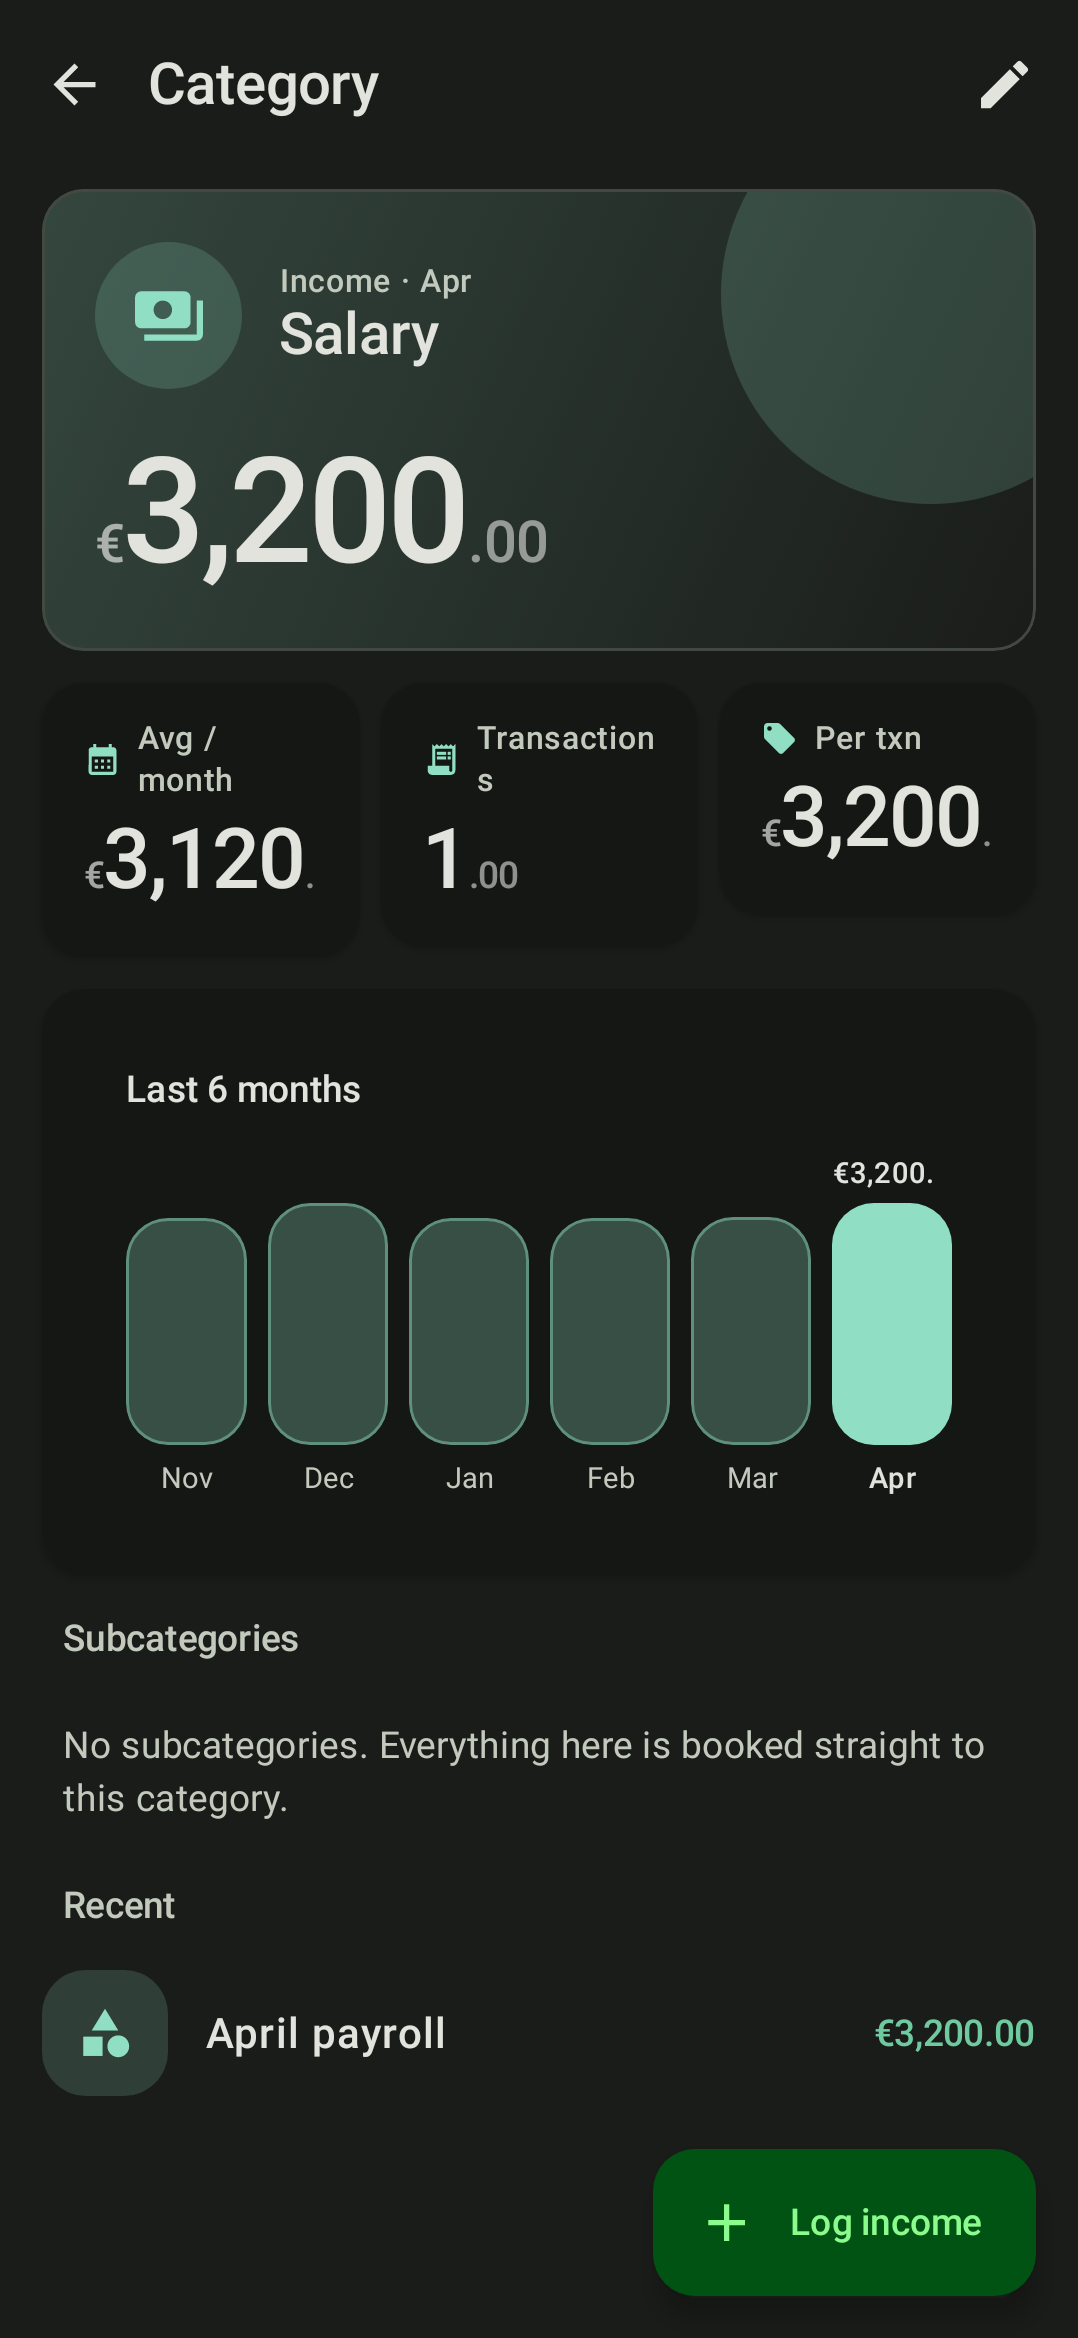
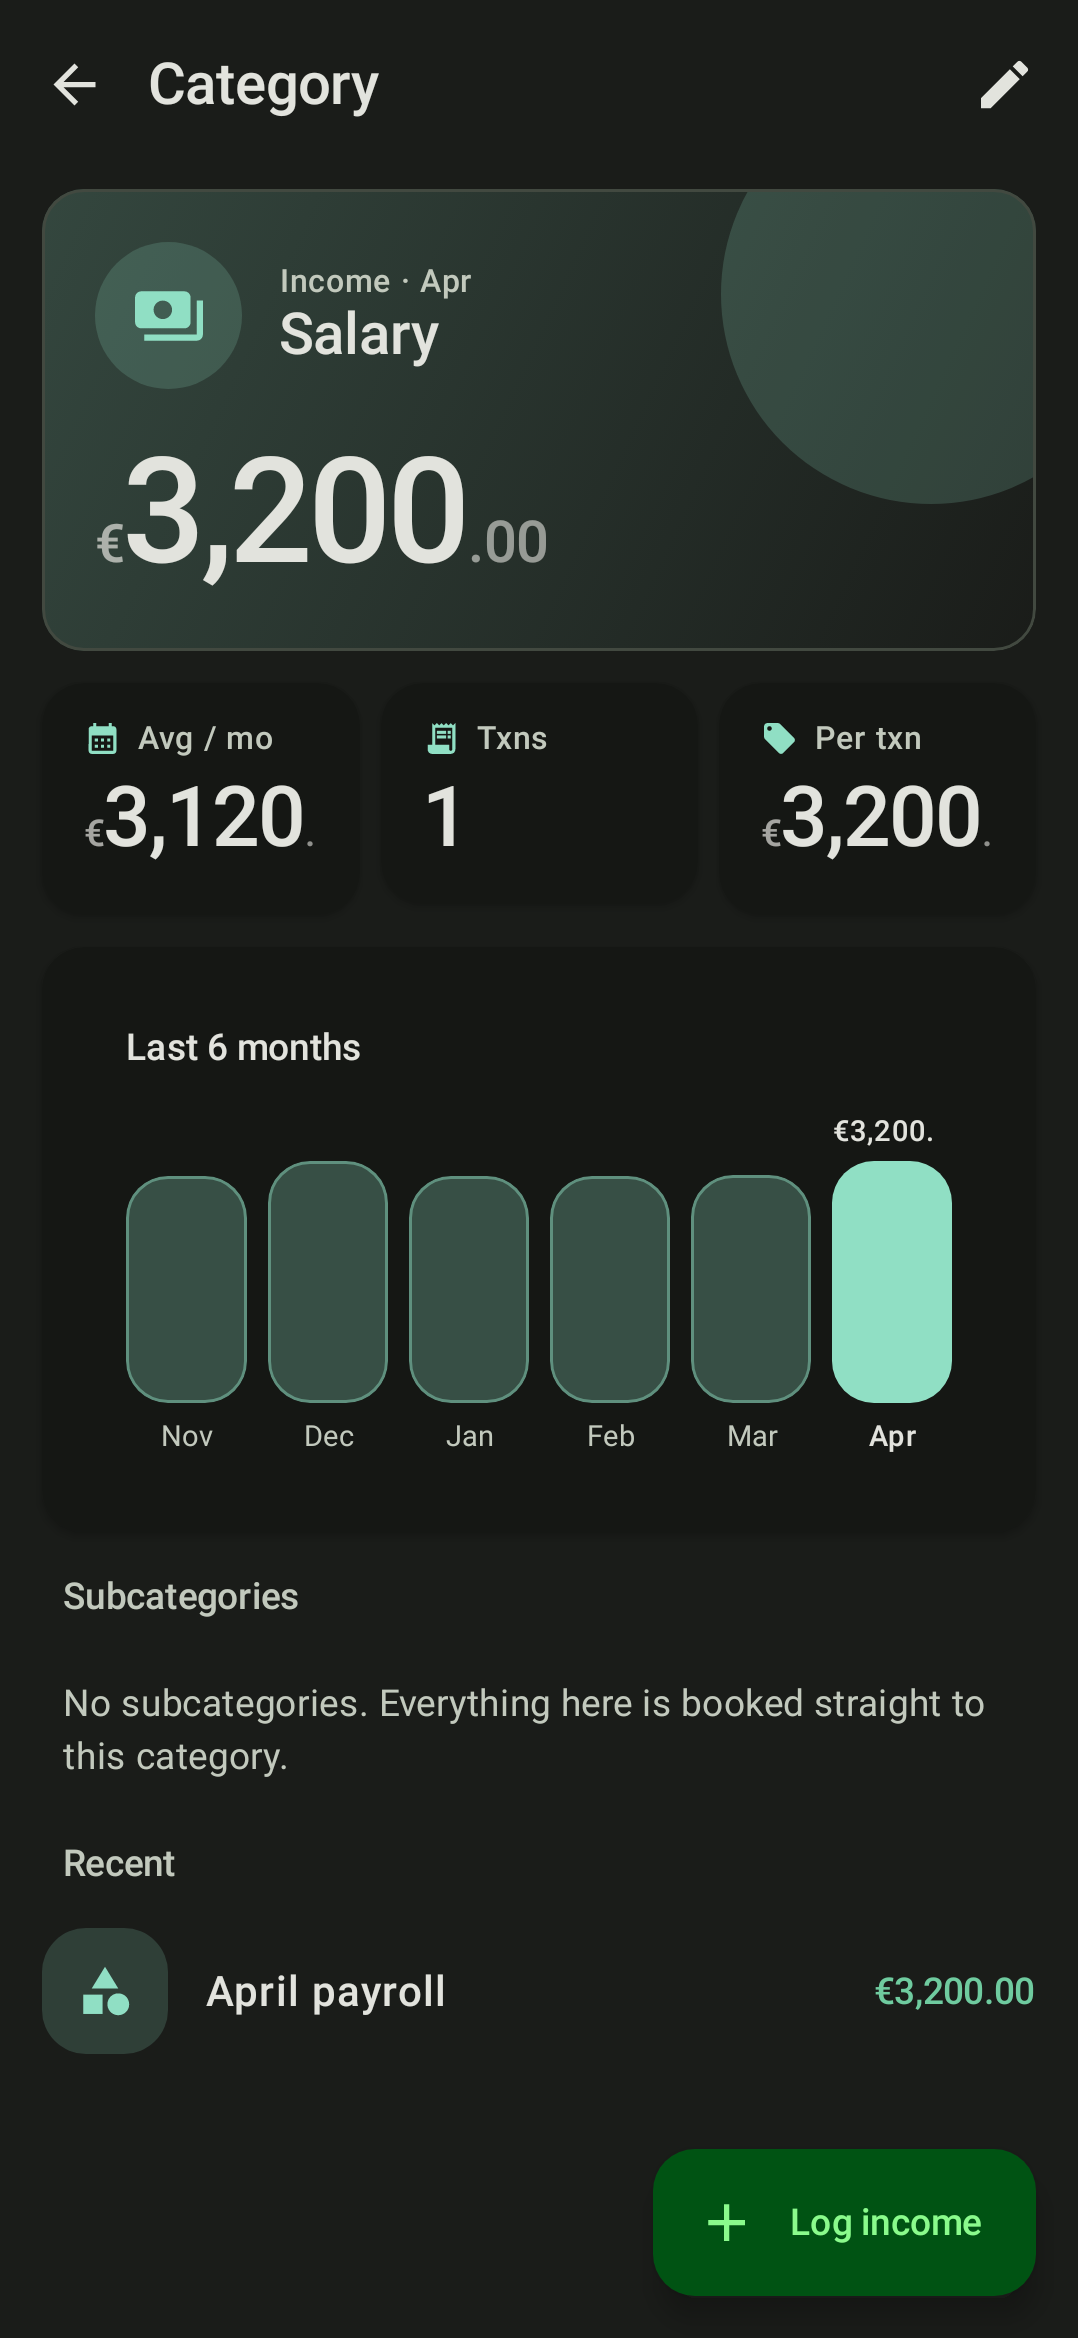
fix(category): re-record the details goldens after the Txns rename
#449 recorded them on a base without #452, so the committed images still show
"Transactions 14.00" where the screen now renders "Txns 14" — `main` has been
red since that merge and every PR inherits it.

Also folds the back-affordance key set into `rememberBackNavigationNavEntryDecorator`,
which leaves the navigation host one call and puts the derivation where a test
can reach it.

diff --git a/navigation/src/commonMain/kotlin/com/georgeci/moneysurfer/navigation/util/BackNavigationNavEntryDecorator.kt b/navigation/src/commonMain/kotlin/com/georgeci/moneysurfer/navigation/util/BackNavigationNavEntryDecorator.kt
@@ -16,17 +16,28 @@ import com.georgeci.moneysurfer.uikit.navigation.LocalSurferCanNavigateBack
  * composed — selecting the section a screen is already in resets the stack to just that screen, and
  * its arrow has to go with the entries that were below it.
  *
- * @param poppableContentKeys from [backNavigationContentKeys].
+ * Takes the [backStack] rather than the keys [backNavigationContentKeys] derives from it, so the
+ * navigation host is left with one call and nothing to hold: which entries can go back is this
+ * file's business, and the host has no test harness to cover it in.
+ *
+ * The keys are derived on every composition rather than through a `derivedStateOf`. Memoizing them
+ * would have to key on [entryProvider], which the host rebuilds each composition, so the cache
+ * would miss every time anyway — and a back stack is a handful of entries. Only the *decorator* is
+ * memoized, on the keys themselves, so an unchanged stack does not hand `NavDisplay` a new one.
  */
 @Composable
 fun <T : Any> rememberBackNavigationNavEntryDecorator(
-    poppableContentKeys: Set<Any>,
-): NavEntryDecorator<T> = remember(poppableContentKeys) {
-    NavEntryDecorator { entry ->
-        CompositionLocalProvider(
-            LocalSurferCanNavigateBack provides (entry.contentKey in poppableContentKeys),
-        ) {
-            entry.Content()
+    backStack: List<T>,
+    entryProvider: (T) -> NavEntry<T>,
+): NavEntryDecorator<T> {
+    val poppableContentKeys = backNavigationContentKeys(backStack, entryProvider)
+    return remember(poppableContentKeys) {
+        NavEntryDecorator { entry ->
+            CompositionLocalProvider(
+                LocalSurferCanNavigateBack provides (entry.contentKey in poppableContentKeys),
+            ) {
+                entry.Content()
+            }
         }
     }
 }

diff --git a/navigation/src/commonMain/kotlin/com/georgeci/moneysurfer/navigation/AppNavGraph.kt b/navigation/src/commonMain/kotlin/com/georgeci/moneysurfer/navigation/AppNavGraph.kt
@@ -32,7 +32,6 @@ import androidx.navigation3.runtime.rememberNavBackStack
 import androidx.navigation3.runtime.rememberSaveableStateHolderNavEntryDecorator
 import androidx.navigation3.ui.NavDisplay
 import androidx.savedstate.serialization.SavedStateConfiguration
-import com.georgeci.moneysurfer.navigation.util.backNavigationContentKeys
 import com.georgeci.moneysurfer.navigation.util.rememberBackNavigationNavEntryDecorator
 import com.georgeci.moneysurfer.navigation.util.rememberViewModelStoreNavEntryDecorator
 import com.georgeci.moneysurfer.uikit.components.SurferSplash
@@ -151,13 +150,6 @@ fun AppNavGraph(
         derivedStateOf { backStack.lastOrNull { it is Route.TopLevel } as? Route.TopLevel }
     }
 
-    // Which screens may draw a back affordance at all. Recomputed from the stack rather than
-    // decided per screen: a section reset to by the drawer has nothing below it, the same section
-    // pushed from the dashboard on a phone does.
-    val poppableContentKeys by remember(backStack) {
-        derivedStateOf { backNavigationContentKeys(backStack, entryProvider) }
-    }
-
     val navDisplay: @Composable () -> Unit = {
         NavDisplay(
             modifier = Modifier.background(AppTheme.materialColors.background),
@@ -184,7 +176,7 @@ fun AppNavGraph(
             entryDecorators = listOf(
                 rememberSaveableStateHolderNavEntryDecorator(),
                 rememberViewModelStoreNavEntryDecorator(),
-                rememberBackNavigationNavEntryDecorator(poppableContentKeys),
+                rememberBackNavigationNavEntryDecorator(backStack, entryProvider),
                 rememberNavigationResultNavEntryDecorator(
                     backStack = backStack,
                     entryProvider = entryProvider,

diff --git a/composeApp/src/jvmTest/kotlin/com/georgeci/moneysurfer/ui/BackNavigationDecoratorTest.kt b/composeApp/src/jvmTest/kotlin/com/georgeci/moneysurfer/ui/BackNavigationDecoratorTest.kt
@@ -27,13 +27,14 @@ class BackNavigationDecoratorTest : StringSpec({
 
     "the decorator gives each entry the affordance its place on the stack allows" {
         val seen = mutableMapOf<String, Boolean>()
+        // A section the drawer reset to, with one detail opened on top of it.
+        val backStack = listOf("accounts", "account-1")
 
         runComposeUiTest {
             setContent {
-                val entries = remember { listOf(probe("accounts", seen), probe("account-1", seen)) }
-                // What `backNavigationContentKeys` produces for the stack [accounts, account-1]:
-                // the list is the bottom entry, the detail above it is not.
-                val decorator = rememberBackNavigationNavEntryDecorator<String>(setOf("account-1"))
+                val provider = remember { { key: String -> probe(key, seen) } }
+                val decorator = rememberBackNavigationNavEntryDecorator(backStack, provider)
+                val entries = remember { backStack.map(provider) }
 
                 rememberDecoratedNavEntries(entries, listOf(decorator)).forEach { it.Content() }
             }
